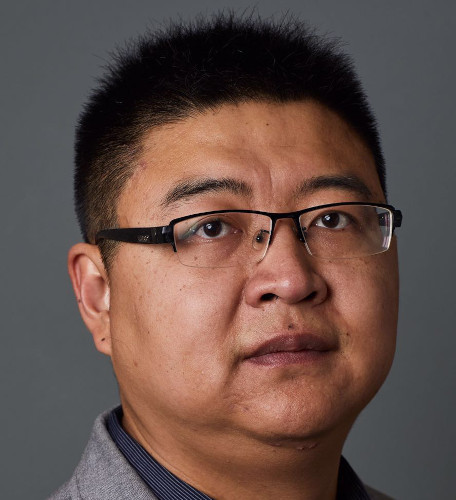
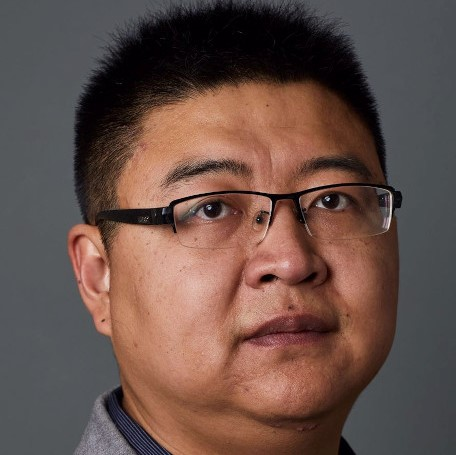
.

diff --git a/index.html b/index.html
@@ -54,6 +54,13 @@
         </a>
       </div>
 
+      <div class="instructor">
+        <a href="https://hobi.med.ufl.edu/profile/wu-yonghui/">
+            <div class="instructorphoto"><img src="figures/yonghui_wu.jpg"></div>
+            <div>Yonghui Wu<br>University of Florida</div>
+        </a>
+      </div>
+
 <!--     <div class="instructor">
        <a href=".">
         <div class="instructorphoto"><img src="figures/user.png"></div>
@@ -92,9 +99,10 @@
         His research interest is machine learning and artificial intelligence in biomedicine. He is the Founding Director of the WCM Insistute of AI for Digital Health (AIDH). Dr. Wang has published on major AI venues including Neurips, ICML, AAAI and KDD, as well as major medical venues including Nature Medicine, Annals of Internal Medicine and JAMA Internal Medicine. Dr. Wang is an elected fellow of AMIA, ACMI and IAHSI, and a distinguished member of ACM. Dr. Wang's research has been extensively funded by federal agencies including NIH, NSF and ONR, priviate foundations including MJFF and ASA, as well as industries such as Amazon, Google, Boerhinger Ingelheim and Sanofi.</p>
 
         <p><b>Chunhua Weng</b>, Ph.D., FACMI, Professor of Biomedical Informatics at Columbia University.
-        The Weng Lab is focused on clinical research informatics. Her lab develops novel methods to improve the efficiency and generalizability of clinical trials research, to facilitate human phenotyping using electronic health records data, and to automate clinical evidence computing. The National Library of Medicine, the Human Genome Research Institute, FDA, and the Patient-Centered Outcomes Research Institute have supported Dr. Weng’s research. Also, Dr. Weng has received several signature awards from Columbia University, including an Irving Fellowship (2007–2010), a two-phase Collaborative and Multidisciplinary Pilot Research Award (CaMPR) (2008–2010), a Columbia University Diversity Research Fellowship (2009), a Florence Irving Professorship (2010–2013), and a multidisciplinary collaborative award (2021-2022). Dr. Weng is currently an Associate Editor for Journal of Biomedical Informatics.
+        The Weng Lab is focused on clinical research informatics. Her lab develops novel methods to improve the efficiency and generalizability of clinical trials research, to facilitate human phenotyping using electronic health records data, and to automate clinical evidence computing. The National Library of Medicine, the Human Genome Research Institute, FDA, and the Patient-Centered Outcomes Research Institute have supported Dr. Weng’s research. Also, Dr. Weng has received several signature awards from Columbia University, including an Irving Fellowship (2007–2010), a two-phase Collaborative and Multidisciplinary Pilot Research Award (CaMPR) (2008–2010), a Columbia University Diversity Research Fellowship (2009), a Florence Irving Professorship (2010–2013), and a multidisciplinary collaborative award (2021-2022). Dr. Weng is currently an Associate Editor for Journal of Biomedical Informatics.</p>
 
-      </p>
+        <p><b>Yonghui Wu</b>, Ph.D., Associate Professor at the University of Florida.
+        Dr. Yonghui Wu is an Associate Professor with Tenure in the College of Medicine, Department of Health Outcomes & Biomedical Informatics at the University of Florida. He also serves as the Director of Natural Language Processing (NLP) at UF Clinical and Translational Science Institute (CTSI) and OneFlorida Clinical Research Consortium. Dr. Wu’s research interests include natural language processing (NLP), machine learning, computational drug repurposing, and applications of artificial intelligence (AI) technologies to electronic health records for clinical and translational research. He has published over 80 peer-reviewed papers and has been the principal investigator for grants from the National Institutes of Health (NIH) and Patient-Centered Outcomes Research Institute.</p>
     </div>
 </div>
 
@@ -102,12 +110,18 @@
 
 <div class="containersmall">
   <h2>Advisory committee</h2>
+        <div class="instructor">
+          <a href="https://medicine.yale.edu/profile/hua-xu/">
+        <div class="instructorphoto"><img src="figures/zhiyong_lu.png"></div>
+        <div>Zhiyong Lu, Ph.D., FACMI<br>NCBI/NLM/NIH<br></div>
+        </a>
+   </div>
    <div class="instructor">
           <a href="https://medicine.yale.edu/profile/hua-xu/">
         <div class="instructorphoto"><img src="figures/hua_xu.jpg"></div>
-        <div>Hua Xu<br>Yale School of Medicine<br></div>
+        <div>Hua Xu, Ph.D., FACMI<br>Yale School of Medicine<br></div>
         </a>
-    </div>
+   </div>
 </div>
 
 <br>
@@ -115,7 +129,7 @@
 <div class="containersmall">
   <h2>Organizers</h2>
    <div class="instructor">
-          <a href="https://penglab.weill.cornell.edu/">
+          <a href="https://www.ncbi.nlm.nih.gov/research/bionlp/">
         <div class="instructorphoto"><img src="figures/yifan_peng.jpg"></div>
         <div>Yifan Peng<br>Weill Cornell Medicine<br></div>
         </a>

diff --git a/css/style.css b/css/style.css
@@ -189,7 +189,7 @@ table.psets {
 
 .instructor {
   display: inline-block;
-  width: 300px;
+  width: 200px;
   text-align: center;
   margin-right: 20px;
 }
